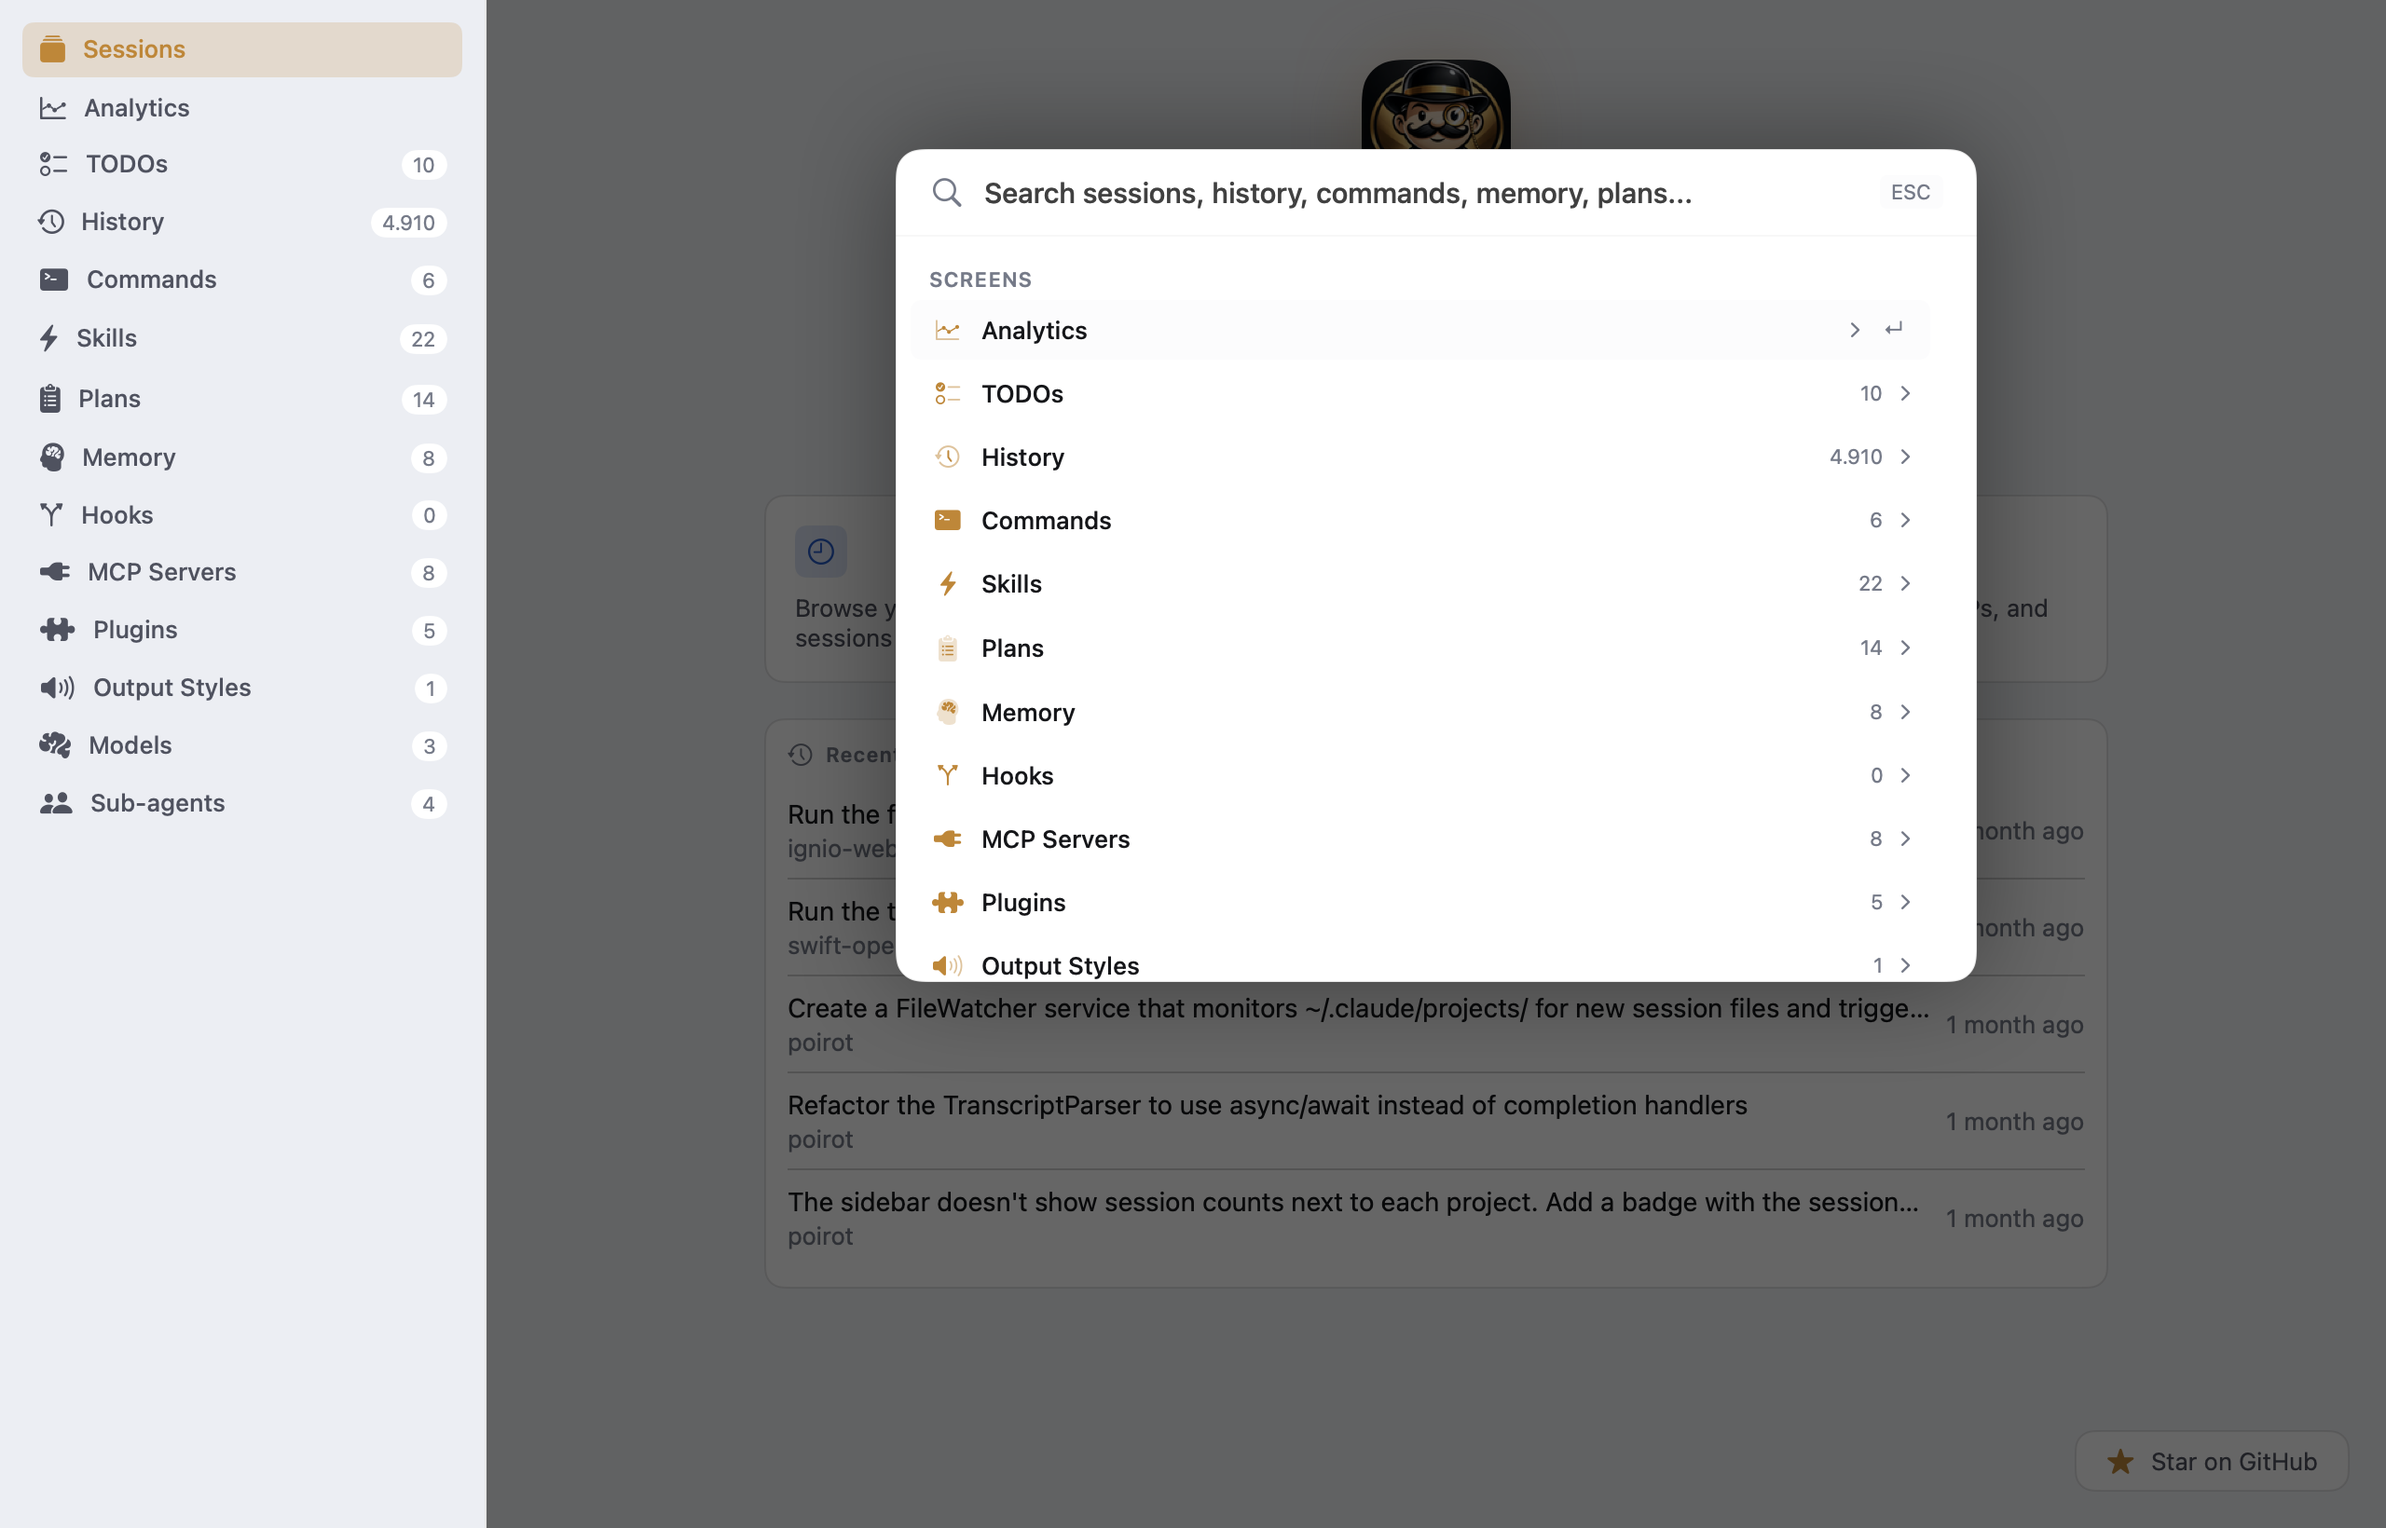
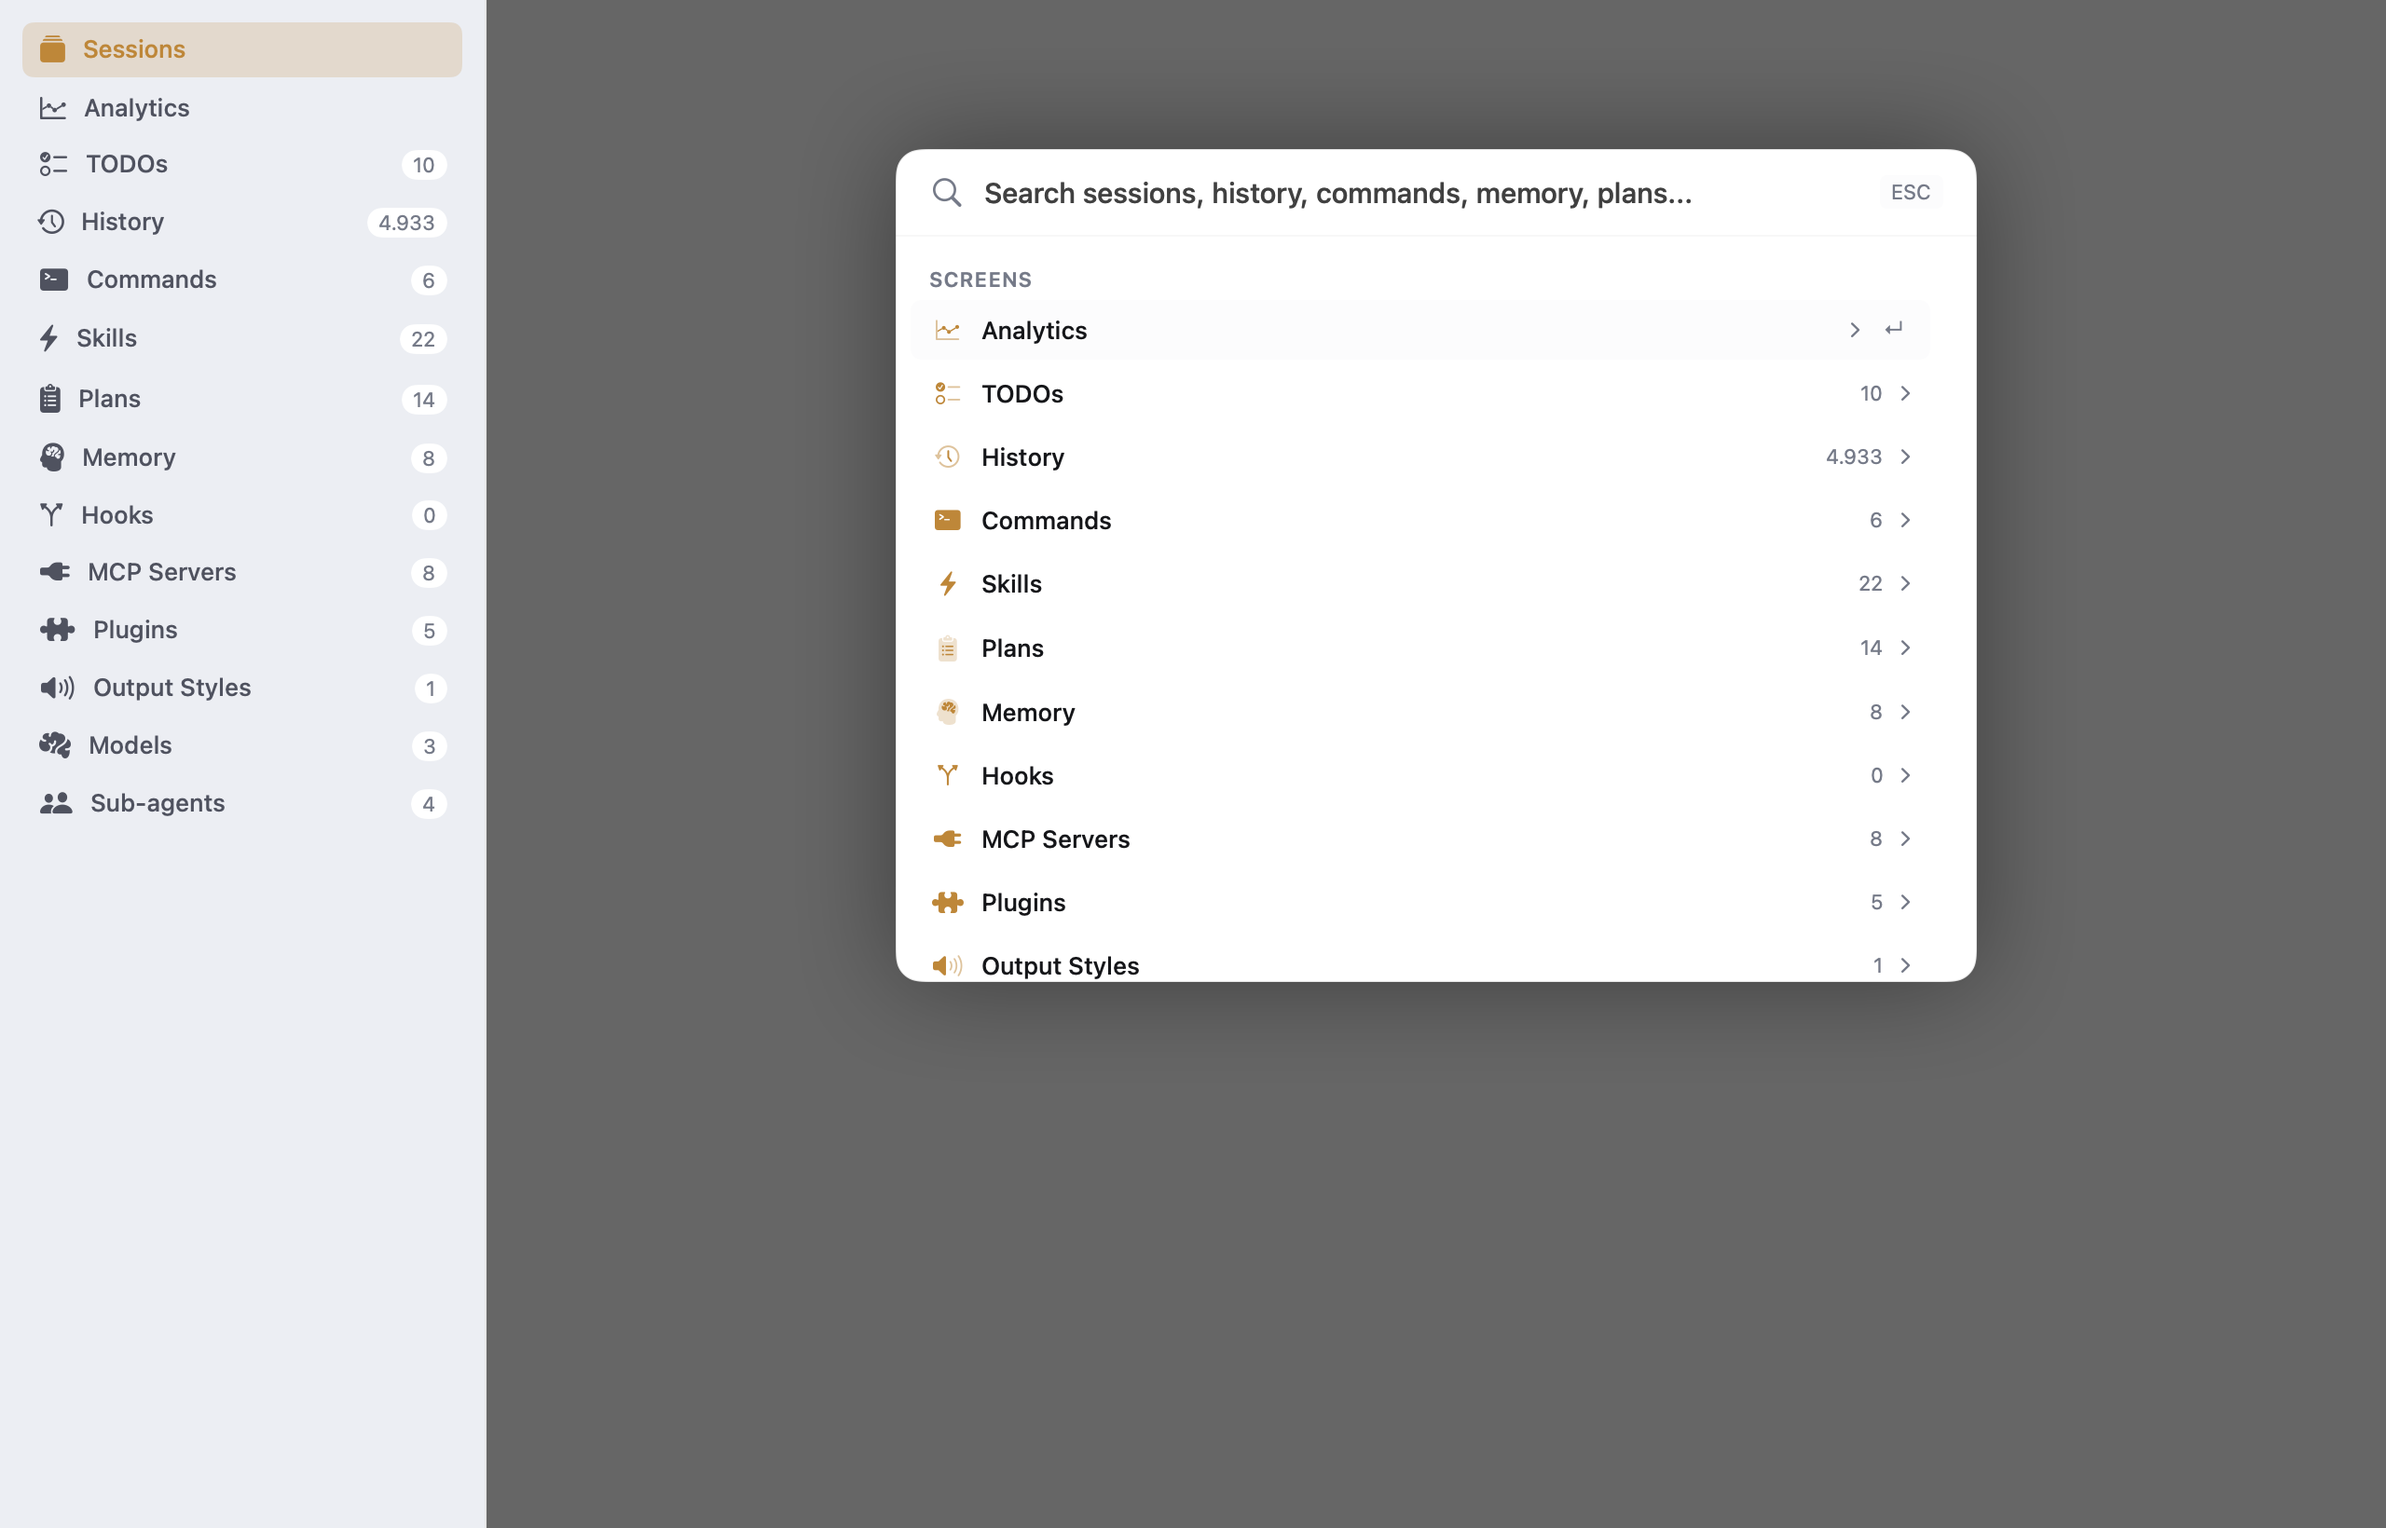
chore: Update session browser screenshot to show new sessions tab
Replace ProjectSessionsView with SessionsNavigationView in the
screenshot test. Regenerate hero, search, and session browser images.

diff --git a/PoirotTests/Screenshots/ScreenshotTests_FullViews.swift b/PoirotTests/Screenshots/ScreenshotTests_FullViews.swift
@@ -30,7 +30,7 @@ struct ScreenshotTests_FullViews {
         )
     }
 
-    // MARK: - Session Browser (Sidebar + Project Grid) — light mode
+    // MARK: - Session Browser (Sidebar + Sessions Navigation) — light mode
 
     @Test
     func testSessionBrowser() async throws {
@@ -40,7 +40,7 @@ struct ScreenshotTests_FullViews {
 
         try await snapshotView(
             compositeAppView(state: state) {
-                ProjectSessionsView(project: ScreenshotData.projects.first!)
+                SessionsNavigationView()
             },
             size: ScreenshotSize.fullApp,
             named: "testSessionBrowser",
